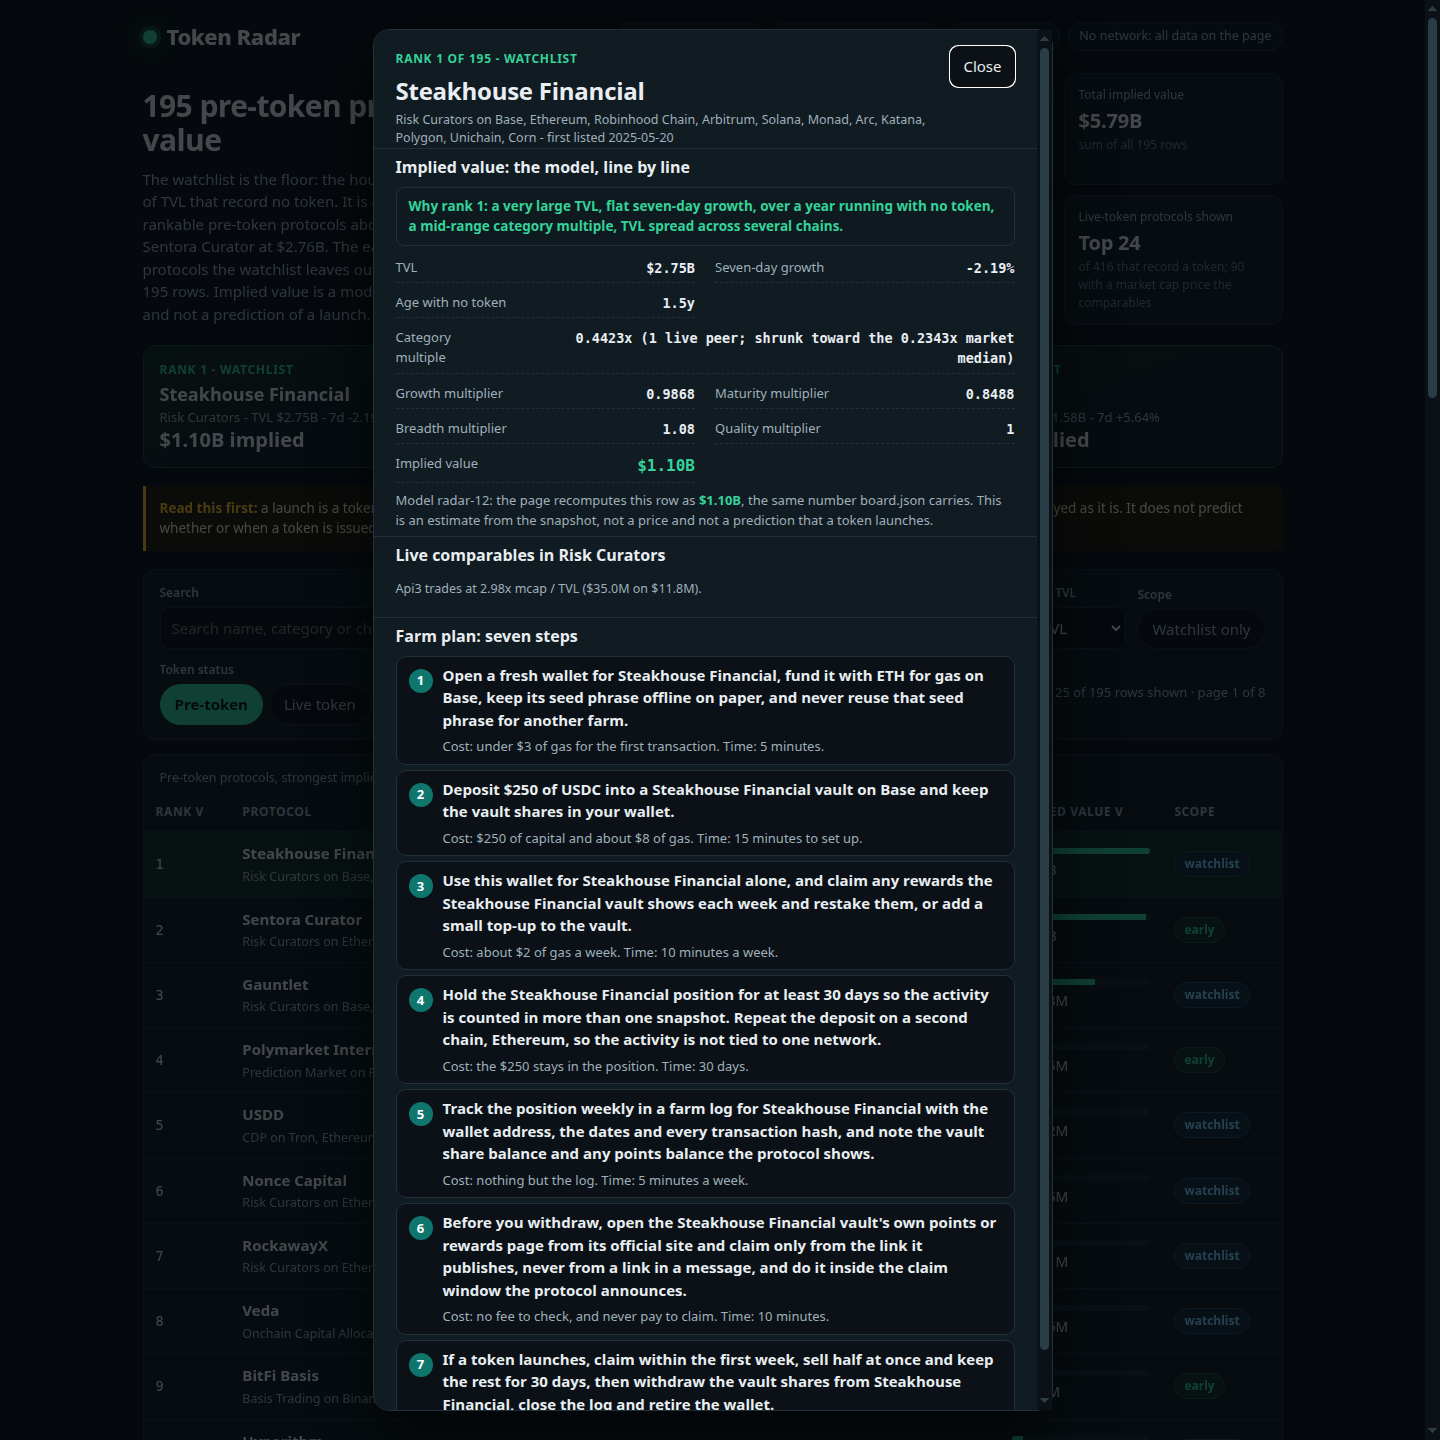
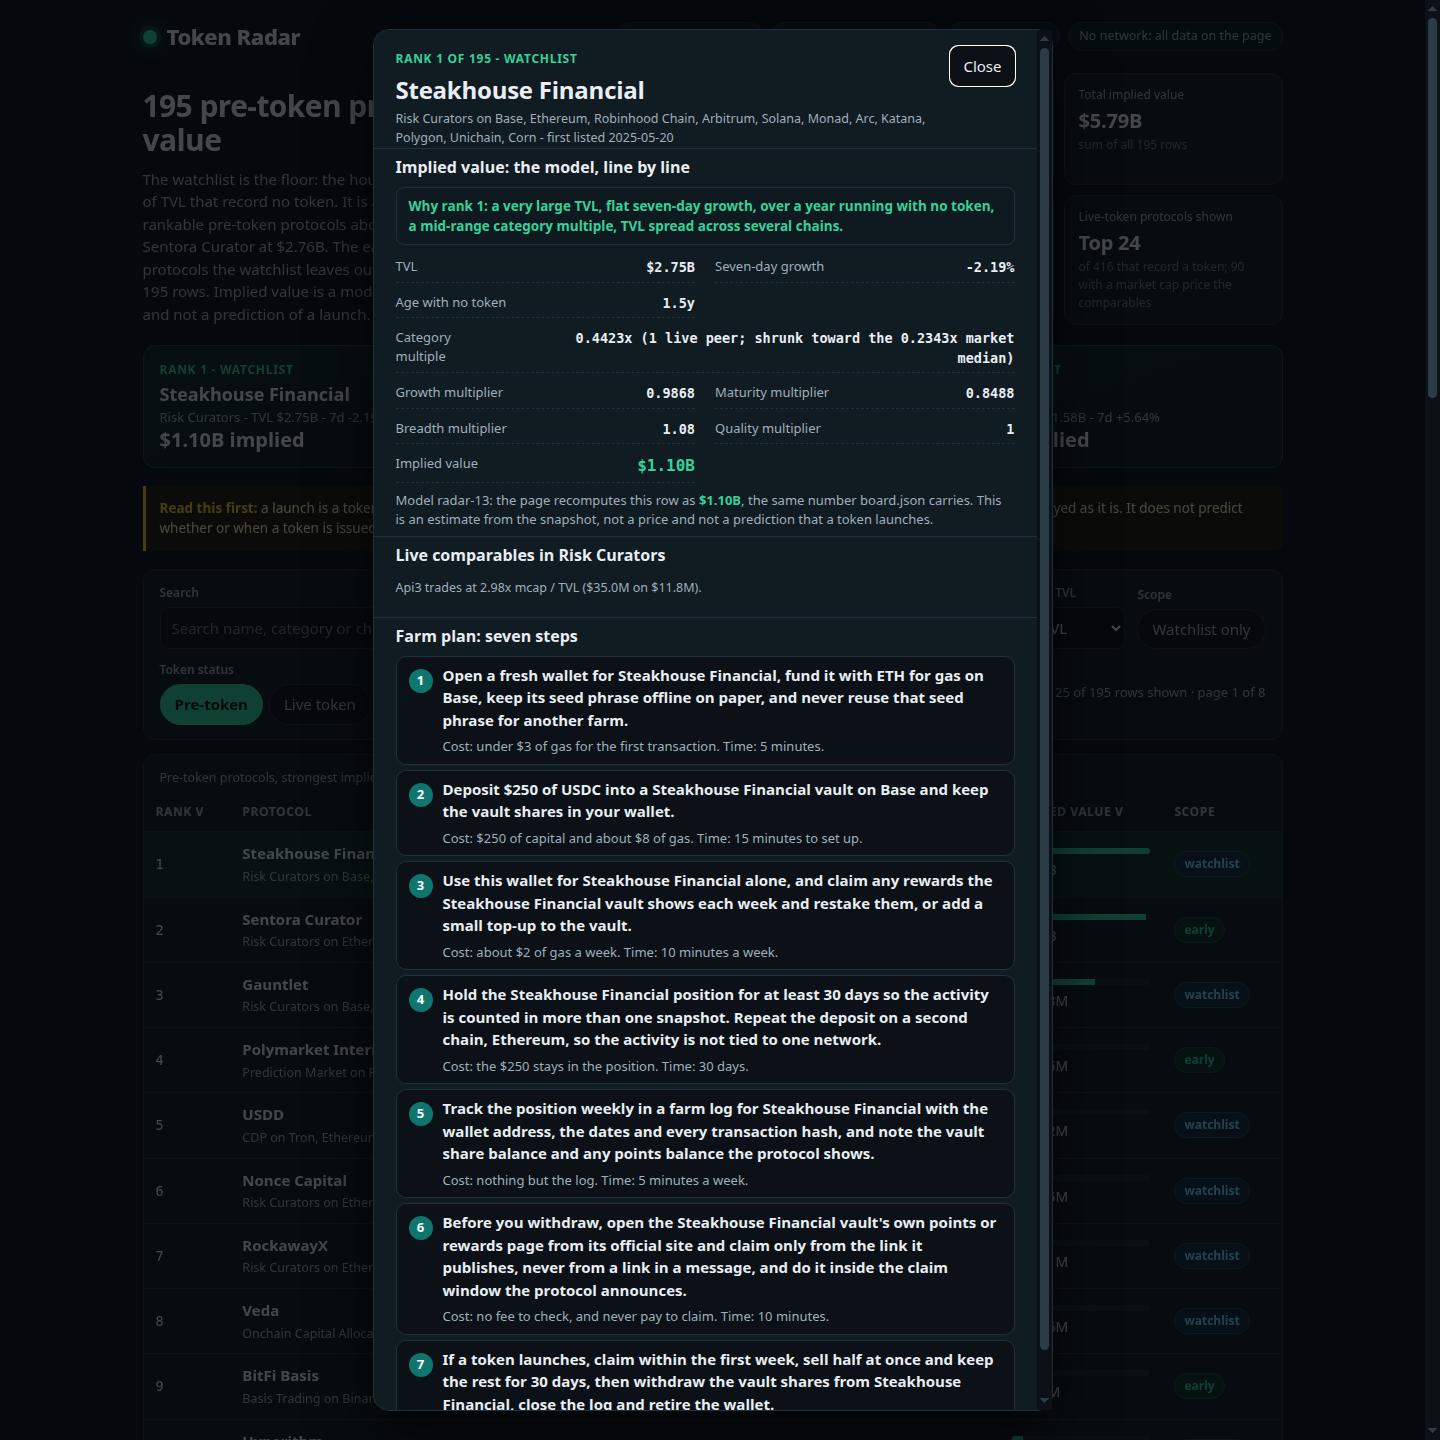
Token Radar radar-13: verified gas tokens in farm plans, hash values validated
The farm plans opened 34 wallet steps with a placeholder, "fund it with
X's native gas token", and two of those placeholders were wrong, not
vague: Tempo has no native gas token at all (fees are paid in any
supported USD stablecoin) and Proton charges no gas fee at all. The map
now names a token the chain's own documentation verifies for 21 more
chains (Arc USDC, Plasma XPL, Stable USDT0, Provenance HASH, Noble USDC,
ETH on Manta Pacific, Reya, Morph, RISE and Robinhood Chain, Mezo BTC,
XION, RSK RBTC, Kava KAVA, Canton CC, Bifrost Network BFC, Fluent BLEND,
Stacks STX, Plume PLUME, Klaytn KAIA), so 30 of the 34 rows name a real
token, Tempo names a USD stablecoin, and Proton says transactions carry
no gas fee, with its cost lines saying the same. Four chains stay generic
because no public record settles their gas token (BSquared, Pharos,
Strato, Qubic). The page also took any hash at face value, so a link with
an unknown category, chain, tab or protocol opened an empty board, or the
wrong tab, while the controls said 'All categories'; the hash is now read
against the values the board knows and an unknown value is ignored. The
board is unchanged: same 195 rows, ranks and implied values; only the
farm-plan wording moves, on 30 rows. Screenshots retaken for radar-13.

diff --git a/lib/model.ts b/lib/model.ts
@@ -1,4 +1,4 @@
-// Token Radar's model (radar-12): one sealed snapshot in, one ranked board out.
+// Token Radar's model (radar-13): one sealed snapshot in, one ranked board out.
 //
 // The board covers every slug in the snapshot's watchlist (the floor, never a
 // ceiling) plus every other rankable pre-token protocol the watchlist leaves
@@ -122,7 +122,7 @@ export const MODEL: ModelConstants = {
 };
 
 /** The model's version label: the dashboard names it. */
-export const MODEL_VERSION = 'radar-12';
+export const MODEL_VERSION = 'radar-13';
 
 /** How many live-token protocols the Live token view carries, by market cap. */
 export const LIVE_ROWS = 24;
@@ -594,12 +594,29 @@ function trackFor(p: SnapshotProtocol): string {
   return `Track the position weekly in a farm log for ${name} with the wallet address, the dates and every transaction hash, and note ${note}`;
 }
 
-/** The native gas token of a chain, where it is a household name; anything else is named by the chain, never guessed. */
-function gasTokenFor(chain: string): string {
+/** The gas token of a chain, where the chain's own record names it, or null where the chain charges no gas at all.
+ * The household names were in the map from the start (ETH on the EVM rollups, SOL, BTC, AVAX and the rest); the
+ * rest were checked against the chain's own documentation or its gas-token record before they were added here,
+ * never guessed from the chain's name. Arc pays gas in USDC (Circle's gas reference), Plasma's is XPL (its
+ * paymaster subsidises USDT transfers only, every other transaction pays XPL), Stable's is USDT0, Provenance's is
+ * HASH (its gas-and-fees docs), Noble's is USDC (its USDC fee model), Manta Pacific's, Reya's, Morph's, RISE's
+ * and Robinhood Chain's is ETH (each an Ethereum L2 with ETH gas), Mezo's is BTC, XION's is XION, RSK's is RBTC
+ * (Rootstock's gas docs), Kava's is KAVA, Canton's is CC (its tokenomics docs: traffic fees are paid in CC),
+ * Bifrost Network's is BFC, Fluent's is BLEND, Stacks' is STX (its fees docs: microSTX), Plume's is PLUME, and
+ * Klaytn's is KAIA (KLAY migrated to KAIA at the Kaia merger). Tempo has no native gas token: fees are paid in
+ * any supported USD stablecoin, so the step names that instead of a ticker. Four chains stay on the generic
+ * wording because no public record settles their gas token: BSquared (B2 on its hub, BTC on its rollup), Pharos
+ * (PHRS on its testnet, its mainnet token unclear), Strato and Qubic. Proton returns null: XPR Network charges
+ * no gas fee, so the wallet step says so instead of naming a token that does not exist. */
+function gasTokenFor(chain: string): string | null {
+  if (chain === 'Proton') return null;
   const known: Record<string, string> = {
     Ethereum: 'ETH', Base: 'ETH', Arbitrum: 'ETH', Optimism: 'ETH', Ink: 'ETH', Unichain: 'ETH', Linea: 'ETH', Scroll: 'ETH', 'zkSync Era': 'ETH', 'World Chain': 'ETH',
     Solana: 'SOL', Binance: 'BNB', Bitcoin: 'BTC', Avalanche: 'AVAX', Polygon: 'POL', Sui: 'SUI', Aptos: 'APT', Tron: 'TRX', 'Hyperliquid L1': 'HYPE',
     Stellar: 'XLM', Flare: 'FLR', Berachain: 'BERA', Mantle: 'MNT', Sonic: 'S', Sei: 'SEI', Celo: 'CELO', Ronin: 'RON', Bittensor: 'TAO', Algorand: 'ALGO', Ripple: 'XRP', Starknet: 'STRK', Monad: 'MON',
+    Arc: 'USDC', Provenance: 'HASH', Plasma: 'XPL', 'Robinhood Chain': 'ETH', RISE: 'ETH', Noble: 'USDC', Manta: 'ETH', Mezo: 'BTC', XION: 'XION',
+    'Reya Network': 'ETH', Tempo: 'a USD stablecoin', Stable: 'USDT0', Morph: 'ETH', RSK: 'RBTC', Klaytn: 'KAIA', Kava: 'KAVA', Canton: 'CC',
+    'Bifrost Network': 'BFC', Fluent: 'BLEND', Stacks: 'STX', 'Plume Mainnet': 'PLUME',
   };
   return known[chain] ?? `${chain}'s native gas token`;
 }
@@ -674,7 +691,14 @@ function exitFor(p: SnapshotProtocol): string {
  * 4 names the protocol too, so no step is the same string on two rows: steps
  * 1 and 4 used to read identically for every protocol on the same chain
  * (one step-1 string covered 55 rows), which made the plan look templated
- * even where the action differed. Step 3 keeps one wallet per
+ * even where the action differed. The gas token is the chain's own, checked
+ * against its documentation, never guessed: 30 of the 34 rows whose first
+ * chain was not in the map now name a verified token, and the one chain
+ * that charges no gas at all (Proton) says so instead of naming a token
+ * that does not exist, and its cost lines say the same, so no step prices
+ * gas that does not exist. Four chains stay on the generic wording because no
+ * public record settles their gas token (BSquared, Pharos, Strato, Qubic).
+ * Step 3 keeps one wallet per
  * protocol: airdrop filters punish wallets that farm dozens of protocols
  * from one address, so the farm wallet for this protocol is used for this
  * protocol alone. Steps 2, 3, 5, 6 and 7 are shaped by the category: the
@@ -688,21 +712,26 @@ export function farmSteps(p: SnapshotProtocol, age: number | null): FarmStep[] {
   const capital = capitalFor(p);
   const hold = holdDaysFor(age);
   const action = actionFor(p, capital, chain);
+  const gas = gasTokenFor(chain);
+  const noGas = gas === null;
+  const walletStep = noGas
+    ? `Open a fresh wallet for ${p.name} on ${chain}, where transactions carry no gas fee, keep its seed phrase offline on paper, and never reuse that seed phrase for another farm.`
+    : `Open a fresh wallet for ${p.name}, fund it with ${gas} for gas on ${chain}, keep its seed phrase offline on paper, and never reuse that seed phrase for another farm.`;
   const others = p.chains.length > 1 ? ` Repeat the deposit on a second chain, ${p.chains[1]}, so the activity is not tied to one network.` : ` Use the protocol on ${chain} only, and do not split the position across networks it does not list.`;
   return [
     {
-      text: `Open a fresh wallet for ${p.name}, fund it with ${gasTokenFor(chain)} for gas on ${chain}, keep its seed phrase offline on paper, and never reuse that seed phrase for another farm.`,
-      cost: 'under $3 of gas for the first transaction',
+      text: walletStep,
+      cost: noGas ? 'nothing: transactions carry no gas fee' : 'under $3 of gas for the first transaction',
       time: '5 minutes',
     },
     {
       text: action,
-      cost: `$${capital} of capital and about $${capital >= 250 ? 8 : 4} of gas`,
+      cost: noGas ? `$${capital} of capital, and no gas fee` : `$${capital} of capital and about $${capital >= 250 ? 8 : 4} of gas`,
       time: '15 minutes to set up',
     },
     {
       text: `Use this wallet for ${p.name} alone, and ${weeklyActionFor(p).charAt(0).toLowerCase()}${weeklyActionFor(p).slice(1)}`,
-      cost: 'about $2 of gas a week',
+      cost: noGas ? 'nothing: transactions carry no gas fee' : 'about $2 of gas a week',
       time: '10 minutes a week',
     },
     {
@@ -722,7 +751,7 @@ export function farmSteps(p: SnapshotProtocol, age: number | null): FarmStep[] {
     },
     {
       text: exitFor(p),
-      cost: 'about $3 of gas to claim',
+      cost: noGas ? 'nothing: transactions carry no gas fee' : 'about $3 of gas to claim',
       time: '15 minutes to claim',
     },
   ];

diff --git a/dashboard/app.js b/dashboard/app.js
@@ -1,4 +1,4 @@
-// Token Radar's dashboard (radar-12). It reads window.RADAR (written beside
+// Token Radar's dashboard (radar-13). It reads window.RADAR (written beside
 // dashboard/ by main.ts from the same board.json) and renders the ranked
 // board, the filters, a per-protocol detail view with the model's own
 // breakdown and the protocol's farm plan, and the live-token set kept apart.
@@ -93,17 +93,39 @@
     return node;
   }
 
+  // Whether a category or a chain is one the board knows: a hash is a link,
+  // not a command, so a value the board does not know is ignored and the
+  // board opens, instead of an empty board the controls deny knowing about.
+  function hasCategory(c) {
+    var list = DATA.rows.concat(DATA.live);
+    for (var i = 0; i < list.length; i++) if ((list[i].category || 'Other') === c) return true;
+    return false;
+  }
+  function hasChain(c) {
+    var list = DATA.rows.concat(DATA.live);
+    for (var i = 0; i < list.length; i++) {
+      var chains = list[i].chains || [];
+      for (var j = 0; j < chains.length; j++) if (chains[j] === c) return true;
+    }
+    return false;
+  }
+
   function readHash() {
     var hash = window.location.hash.replace(/^#/, '');
     if (!hash) return;
     var params = new URLSearchParams(hash);
     if (params.get('q')) state.q = params.get('q');
-    if (params.get('p')) state.selected = params.get('p');
-    if (params.get('category')) state.category = params.get('category');
-    if (params.get('chain')) state.chain = params.get('chain');
+    var p = params.get('p');
+    if (p && findRow(p)) state.selected = p;
+    var cat = params.get('category');
+    if (cat && (cat === 'all' || hasCategory(cat))) state.category = cat;
+    var ch = params.get('chain');
+    if (ch && (ch === 'all' || hasChain(ch))) state.chain = ch;
     if (params.get('watch') === '1') state.watch = true;
-    if (params.get('tab')) state.tab = params.get('tab');
-    if (params.get('mintvl')) state.minTvl = Number(params.get('mintvl')) || 0;
+    var tab = params.get('tab');
+    if (tab === 'pre-token' || tab === 'live') state.tab = tab;
+    var mintvl = Number(params.get('mintvl'));
+    if (mintvl === 50000000 || mintvl === 100000000 || mintvl === 500000000) state.minTvl = mintvl;
     if (params.get('page')) state.page = Math.max(1, Number(params.get('page')) || 1);
   }
   function writeHash() {

diff --git a/main.ts b/main.ts
@@ -1,4 +1,4 @@
-// Token Radar (radar-12): the entry program, Node 22, standard library only.
+// Token Radar (radar-13): the entry program, Node 22, standard library only.
 //
 // It reads the sealed snapshot from /input/snapshot.json (or --input
 // <file|dir>), scores every rankable pre-token protocol with the model in

diff --git a/README.md b/README.md
@@ -6,6 +6,33 @@ staked or bridged product of one that trades, ranks them by what their launch
 would be worth, and hands in a web dashboard with the board, a detail view
 for every protocol, filters, and a farm plan for each row.
 
+## The model (radar-13)
+
+Radar-13 keeps radar-12's formula and every implied value, and fixes two
+things a reader could catch it on. First, the farm plans: 34 rows opened
+their wallet step with a placeholder, "fund it with X's native gas token",
+because their first chain was not in the gas-token map, and two of those
+placeholders were wrong, not vague: Tempo has no native gas token at all
+(fees are paid in any supported USD stablecoin) and Proton charges no gas
+fee at all. The map now names a token the chain's own documentation
+verifies for 21 more chains (Arc's USDC, Plasma's XPL, Stable's USDT0,
+Provenance's HASH, Noble's USDC, ETH on Manta Pacific, Reya, Morph, RISE
+and Robinhood Chain, BTC on Mezo, XION, RBTC on RSK, KAVA, CC on Canton,
+BFC on Bifrost Network, BLEND on Fluent, STX on Stacks, PLUME on Plume
+Mainnet, and KAIA on Klaytn, KLAY having migrated to KAIA at the Kaia
+merger), so 30 of the 34 rows name a real token, Tempo names a USD
+stablecoin, and Proton says transactions carry no gas fee. Four chains
+stay on the generic wording because no public record settles their gas
+token: BSquared (B2 on its hub, BTC on its rollup), Pharos (PHRS on its
+testnet, its mainnet token unclear), Strato and Qubic. Second, the page
+took any hash at face value: a link with an unknown category, chain, tab
+or protocol opened an empty board, or the wrong tab, while the controls
+said "All categories". The hash is now read against the values the board
+knows, and a value it does not know is ignored, so a stale or typed link
+opens the board instead of an empty one. The board is unchanged: same 195
+rows, same ranks, same implied values; only the farm-plan wording moves,
+on 30 rows, and the screenshots are retaken for the radar-13 label.
+
 ## The model (radar-12)
 
 Radar-12 keeps radar-11's formula and every implied value, and fixes two
@@ -161,8 +188,14 @@ one or two protocols without it. Live-token protocols are set aside and
 shown with their market caps. Farm plans are seven steps each, derived from
 the protocol's category, chains, TVL and age, with a cost and a time on every
 step, one wallet per protocol so the farm does not look like a Sybil cluster.
-The wallet step names the gas token of the protocol's own first chain, and
-the weekly action, the number worth logging, the page that would carry a
+The wallet step names the gas token of the protocol's own first chain,
+checked against the chain's own documentation, never guessed: 30 of the 34
+rows whose first chain was not a household name now name a verified token,
+Tempo names a USD stablecoin because it has no native gas token, and Proton
+says transactions carry no gas fee because it charges none. Four chains stay
+on the generic wording because no public record settles their gas token
+(BSquared, Pharos, Strato, Qubic). The weekly action, the number worth
+logging, the page that would carry a
 claim and the way the position unwinds are all shaped by the category, so a
 lender, a pool and a vault do not farm the same way. Every one of the 32
 categories on the board has its own shape for each of those steps, so all
